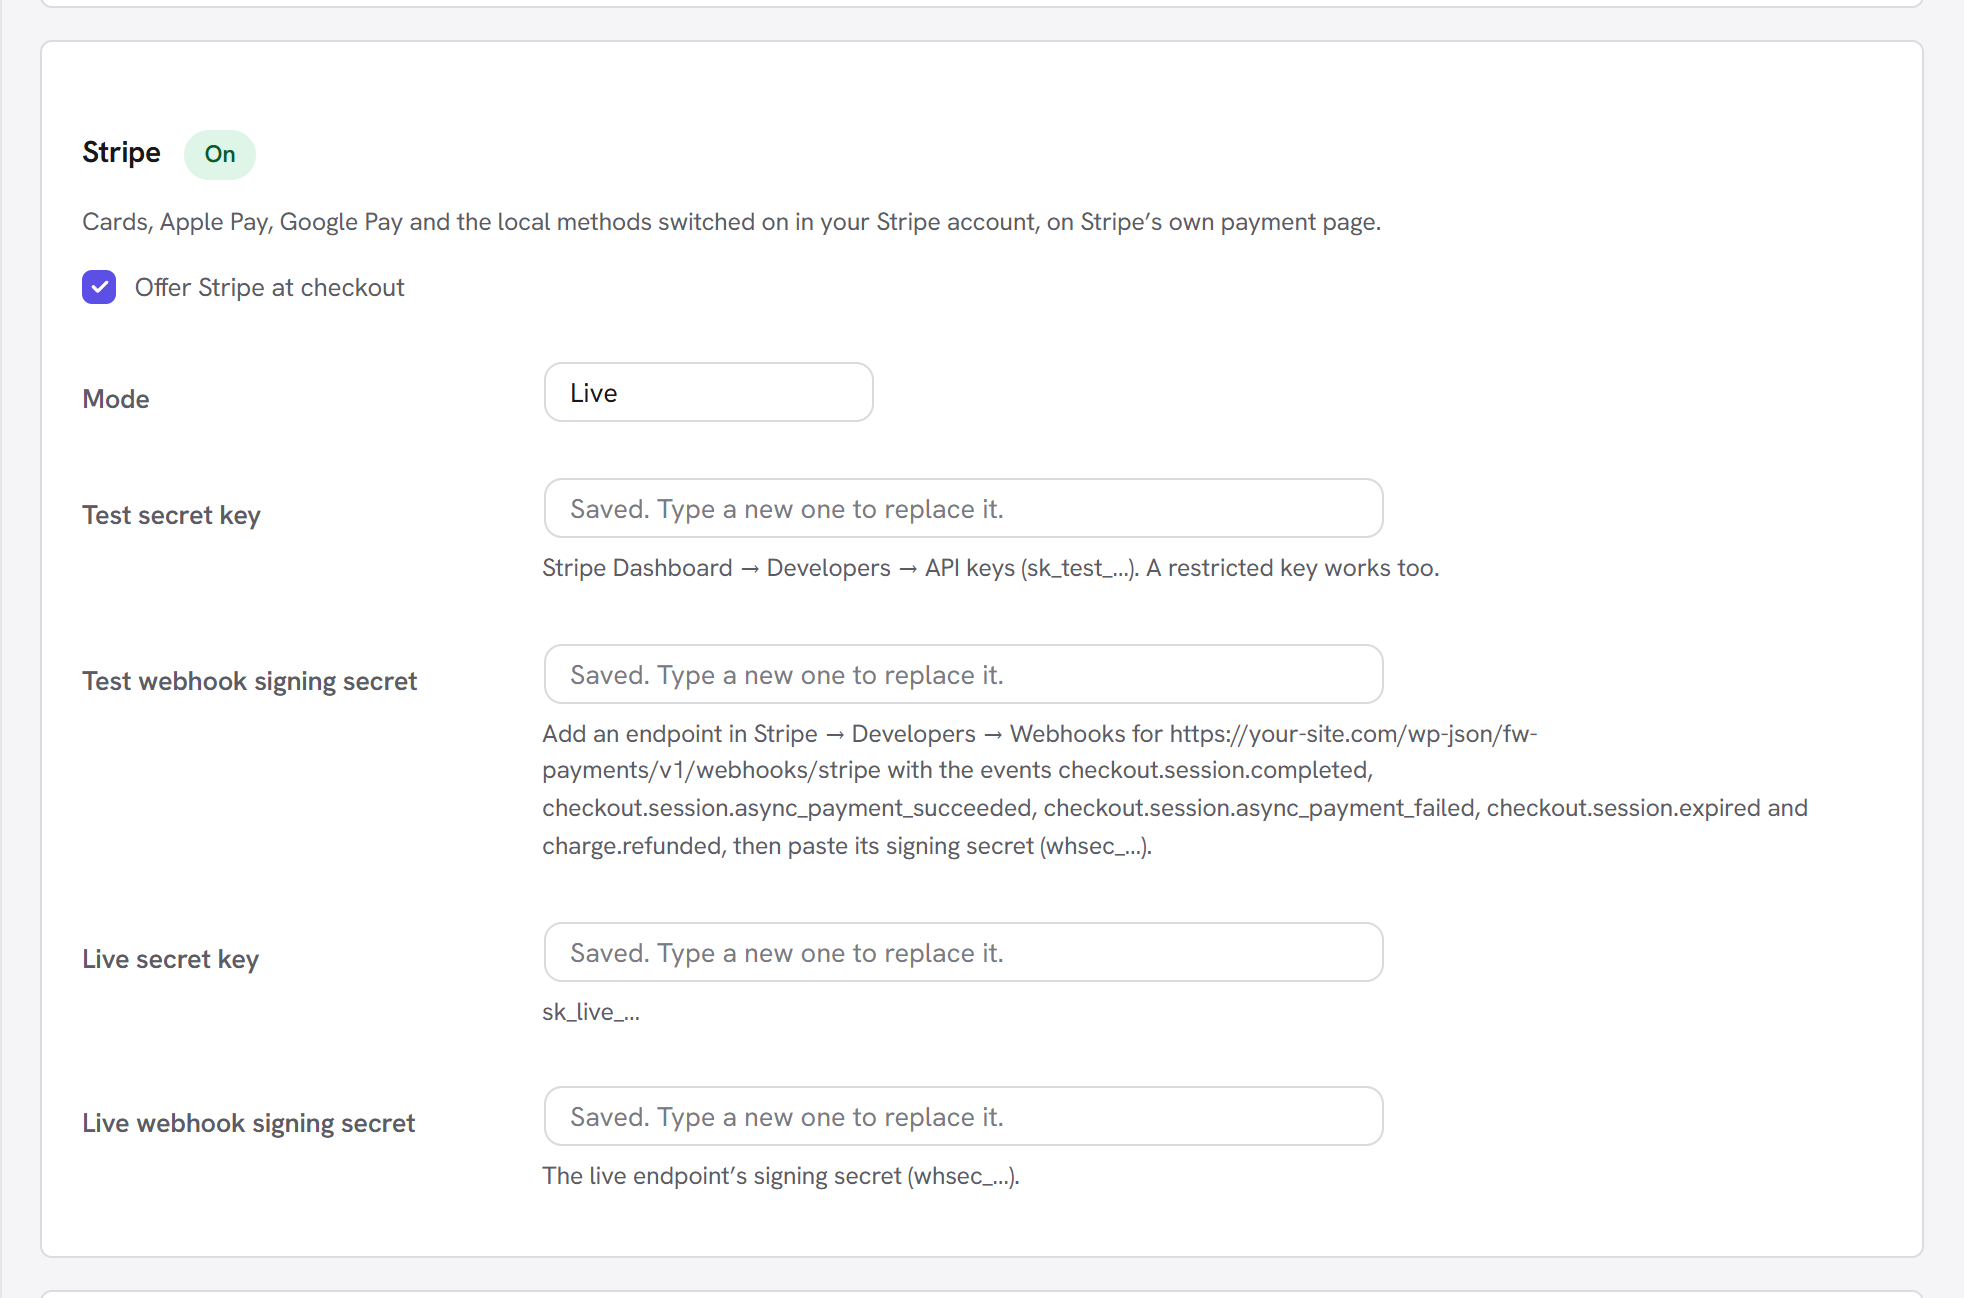
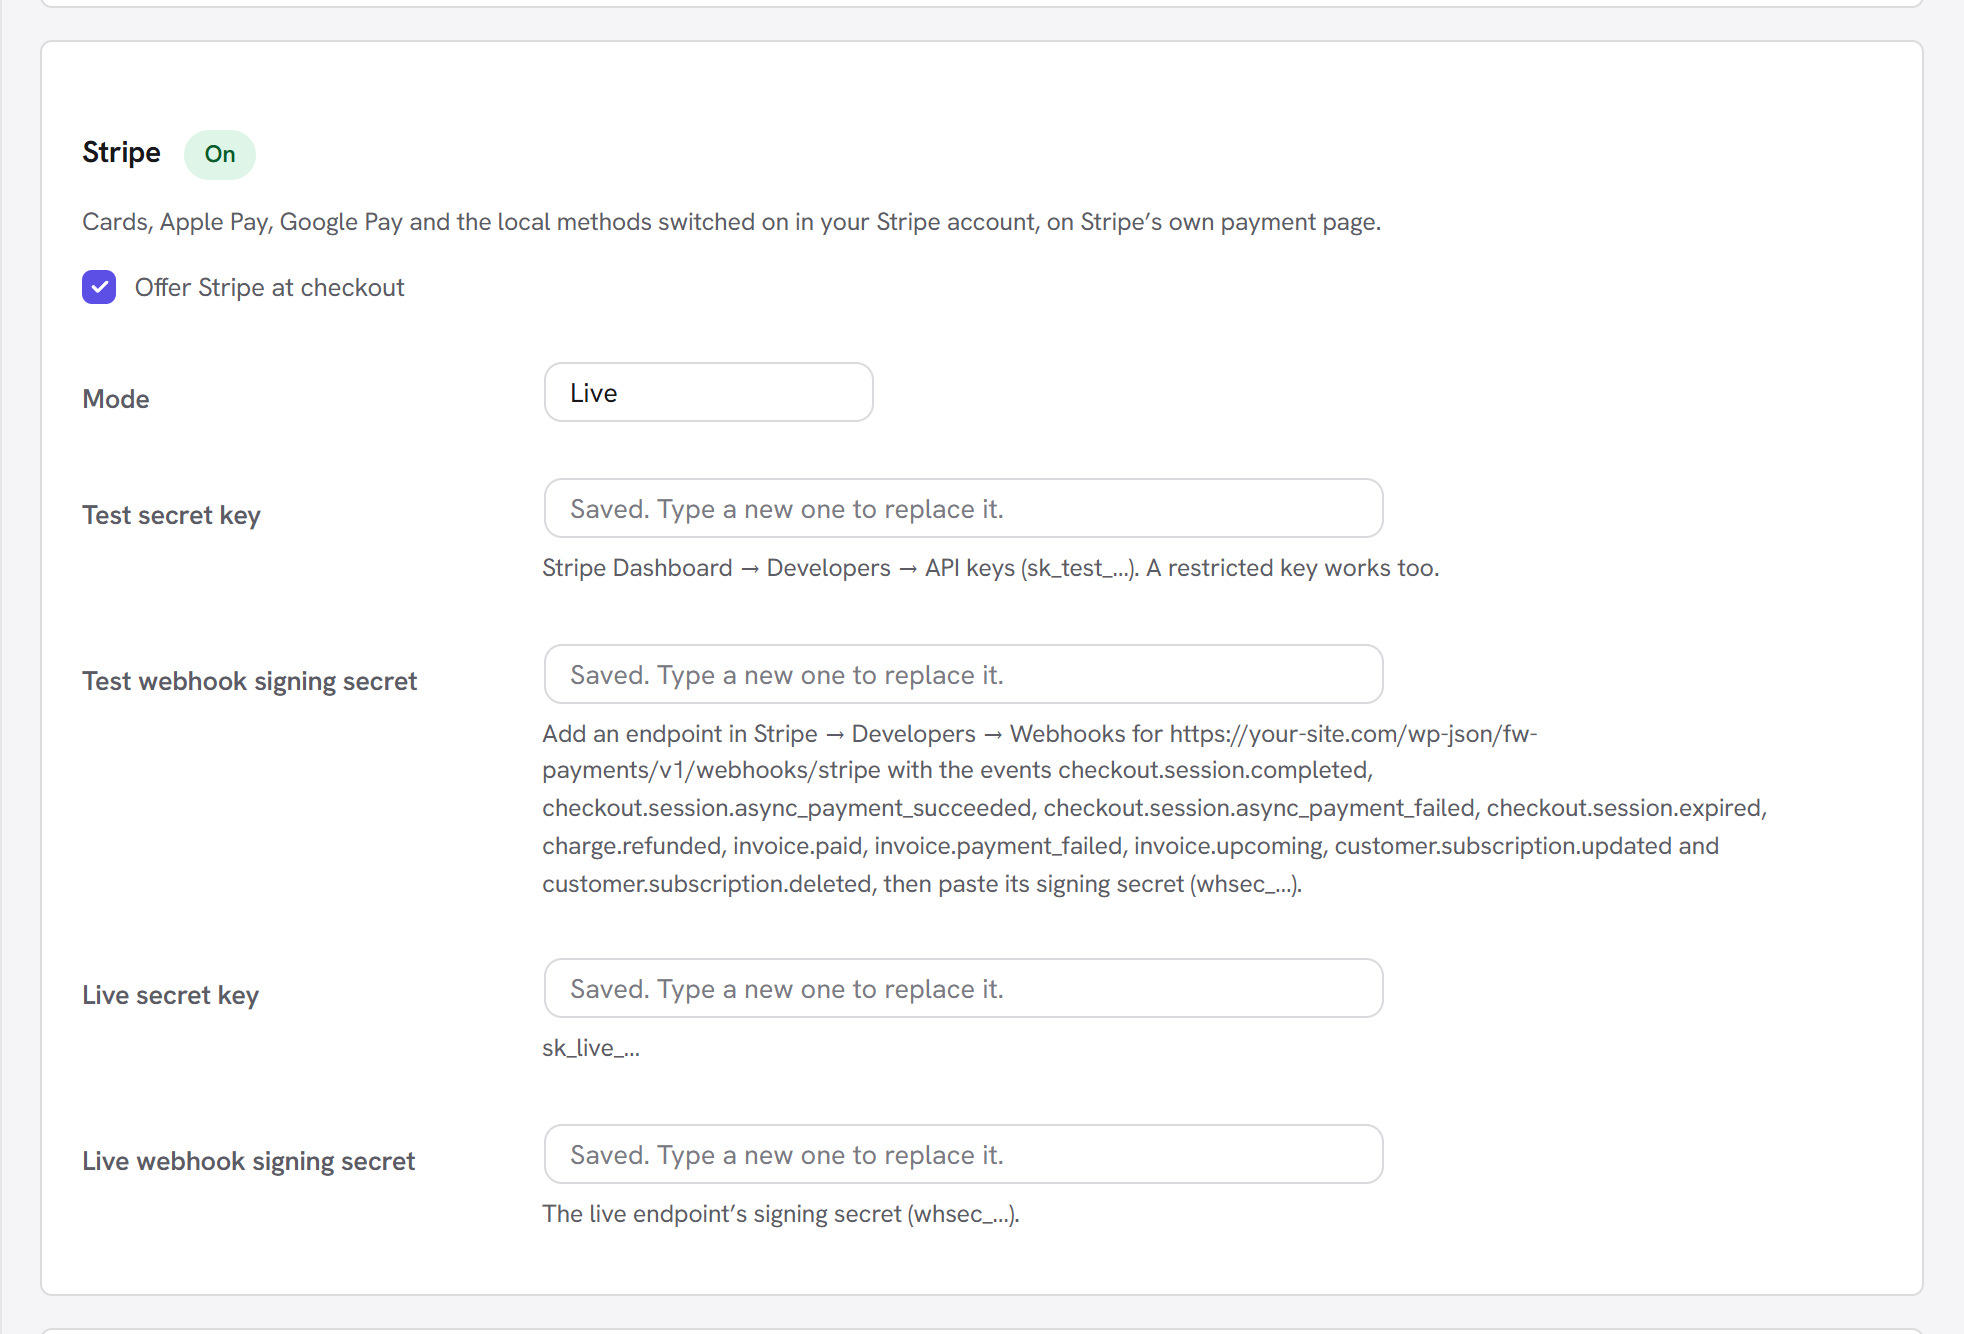
Payments: subscriptions (docs, screenshot, roadmap progress)

diff --git a/docs/extensions/payments.md b/docs/extensions/payments.md
@@ -2,8 +2,8 @@
 sidebar_position: 19
 title: "Payments — One Payments System for Every Unyson+ Extension"
 sidebar_label: "Payments"
-description: "Payments is the shared payments core of Unyson+: payment providers and their methods, one list of every payment and refund, a waiting state for bank transfers and cash, and webhooks. It is hidden, and switches on by itself the first time a feature takes money."
-keywords: [wordpress payments, stripe wordpress, paypal wordpress, bank transfer payments, payment gateway api, refunds, payment webhooks, unyson payments]
+description: "Payments is the shared payments core of Unyson+: payment providers and their methods, one-off payments and subscriptions, one list of every payment and refund, a waiting state for bank transfers and cash, and webhooks. It is hidden, and switches on by itself the first time a feature takes money."
+keywords: [wordpress payments, stripe wordpress, paypal wordpress, wordpress subscriptions, recurring payments, bank transfer payments, payment gateway api, refunds, payment webhooks, unyson payments]
 ---
 
 # Payments
@@ -12,10 +12,10 @@ Payments is the part of Unyson+ that takes money. It is built once and shared, s
 forms and bookings do not each carry their own copy of Stripe, PayPal and refunds.
 
 :::note Where this stands
-This first version takes **one-off payments** and is the foundation the planned [Shop](./shop/roadmap) is built
-on. **Membership and Forms still use their own payment settings today.** They move onto Payments in a later
-step of the [roadmap](./shop/roadmap), together with recurring payments, coupons, invoices and tax. Nothing
-changes on a site that already takes payments.
+Payments takes **one-off payments and subscriptions**, and is the foundation the planned
+[Shop](./shop/roadmap) is built on. **Membership and Forms still use their own payment settings today.** They
+move onto Payments in a later step of the [roadmap](./shop/roadmap), together with coupons, invoices and tax.
+Nothing changes on a site that already takes payments.
 :::
 
 ## It switches on by itself
@@ -77,6 +77,35 @@ A paid payment has a **Refund** box. Type an amount, or leave the full amount, f
 A refund made in the Stripe or PayPal dashboard is picked up automatically when the provider notifies the site,
 so you do not need to record it twice.
 
+## Subscriptions
+
+**Payments → Subscriptions** lists every subscription from every extension. The item appears in the menu once
+the site has its first subscription.
+
+<img src="/img/extensions/payments/subscriptions-list.png" alt="The Subscriptions list: how many are running and how many have a failed payment, then one row per subscription with customer, what it is for, price, provider, status, the next date, and the Payments and Stop renewals buttons" width="1672" />
+
+A subscription is billed **by the provider** (Stripe or PayPal), not by your site. Renewals keep happening even
+if the site is briefly down, and each one arrives in **All payments** as its own payment, marked *Renewal*.
+
+| Status | What it means |
+| --- | --- |
+| **Not started** | The customer has not finished the provider's page. |
+| **In trial** | A free trial is running. The **Next** column shows the first payment date. |
+| **Active** | Paid up. **Next** shows the renewal date. |
+| **Payment failed** | A renewal did not go through. The provider tries the card again by itself. |
+| **Paused** | Billing is on hold. |
+| **Ends soon** | Renewals are stopped. What was paid for still runs to the date shown. |
+| **Ended** | Nothing more will be charged. |
+
+- **Stop renewals** stops future charges at the provider. The customer keeps what they paid for until its date.
+  It also tells the extension the subscription belongs to (a membership, for example), which decides what
+  happens to the customer's access.
+- **Keep it running** undoes that, while the subscription has not ended yet (Stripe only; a PayPal subscription
+  cannot be restarted once cancelled).
+- **Payments** opens that customer's payments.
+
+Bank transfer and cash cannot be used for a subscription, because nothing can be charged again by itself.
+
 ## Settings
 
 **Payments → Settings** is one place for every way the site takes money.
@@ -112,8 +141,9 @@ believed: Stripe's by its signature, PayPal's by asking PayPal.
 
 ## Limits of this version
 
-- **One-off payments only.** Subscriptions arrive when Membership moves onto Payments.
-- **No coupons, invoices or tax yet.** They move in from Membership and Forms in the same step.
+- **No coupon codes, invoices or tax rules yet.** Payments applies a discount or a tax rate it is given; the
+  codes, the invoice documents and the per-country tax rules move in from Membership and Forms later.
+- **PayPal cannot change the price of a running subscription** or restart a cancelled one. Stripe can do both.
 - **Three providers.** Local providers come next on the [roadmap](./shop/roadmap): the Philippines first (GCash,
   Maya, QR Ph), then Southeast Asia, then other regions.
 - Membership, Forms and Bookings do not use it yet.
@@ -173,6 +203,76 @@ It returns a `WP_Error`, or an array:
 When the customer comes back to `urls.success`, Payments checks with the provider by itself.
 `FW_Payments::returning()` gives the charge for the current request, so the page can show its status.
 
+### Start a subscription
+
+```php
+$r = FW_Payments_Subscriptions::start( array(
+    'source'      => 'membership',
+    'source_id'   => $membership_id,
+    'amount'      => 19.00,          // one period's price, before discount and tax
+    'currency'    => 'USD',
+    'bill_unit'   => 'month',        // day | week | month | year
+    'bill_count'  => 1,              // every 1 month
+    'trial_days'  => 14,             // optional
+    'setup_fee'   => 0,              // optional, charged once with the first payment
+    'discount'    => array( 'type' => 'percent', 'amount' => 20, 'duration' => 'repeating', 'months' => 3, 'code' => 'SPRING' ),
+    'tax'         => array( 'rate' => 12, 'inclusive' => false, 'label' => 'VAT', 'country' => 'PH' ),
+    'due_now'     => 0,              // what is charged today, for the first payment's row
+    'description' => 'Gold plan, monthly',
+    'customer'    => array( 'user_id' => 7, 'email' => 'ana@example.com', 'name' => 'Ana', 'country' => 'PH' ),
+    'gateway'     => 'stripe',
+    'method'      => 'stripe',
+    'urls'        => array( 'success' => $thanks_url, 'cancel' => $checkout_url ),
+) );
+// array( 'id' => subscription id, 'charge_id' => first payment, 'status' => 'pending', 'redirect' => url ) or WP_Error
+```
+
+Ask for the methods with `'recurring' => true` so only those that can charge again are offered.
+
+- `discount.duration` is `once`, `repeating` (for `months`) or `forever`; `discount.type` is `percent` or `fixed`.
+- `tax` is a rate the site worked out, or `array( 'automatic' => true )` to let Stripe work it out.
+- The first payment is an ordinary charge with a `subscription_id`. Each renewal is another charge with
+  `type` `renewal`; an upgrade's difference is a charge with `type` `extra`. All of them fire
+  `unysonplus_payments_paid`.
+- The subscription is activated **before** its first charge is marked paid, so a paid listener finds its
+  status and `period_end` already set.
+
+```php
+FW_Payments_Subscriptions::cancel( $id );            // stop at the end of the paid period
+FW_Payments_Subscriptions::cancel( $id, true );      // stop now
+FW_Payments_Subscriptions::resume( $id );            // undo a cancellation that has not taken effect
+FW_Payments_Subscriptions::pause( $id, $until );     // unix time
+FW_Payments_Subscriptions::unpause( $id );
+FW_Payments_Subscriptions::switch_price( $id, array( 'amount' => 190, 'bill_unit' => 'year' ), 'prorate' ); // or 'none'
+FW_Payments_Subscriptions::discount( $id, 30, 2 );   // 30% off the next 2 months
+FW_Payments_Subscriptions::manage_url( $id, $return_url ); // where the payer changes their card
+
+$sub     = FW_Payments_Subscriptions::get( $id );
+$sub     = FW_Payments_Subscriptions::for_source( 'membership', $membership_id );
+$charges = FW_Payments_Subscriptions::charges( $id );
+```
+
+Each returns `true` or a `WP_Error`. The provider is asked first, and the change is made on the site only when
+the provider agreed.
+
+| Hook | Arguments | When |
+| --- | --- | --- |
+| `unysonplus_payments_subscription_activated` | `$subscription`, `$ctx` | The payer agreed; it runs (or its trial does) |
+| `unysonplus_payments_subscription_trial_ended` | `$subscription`, `$ctx` | The trial is over and the first period is paid |
+| `unysonplus_payments_subscription_renewed` | `$subscription`, `$charge` | A renewal was paid |
+| `unysonplus_payments_subscription_renewal_failed` | `$subscription`, `$charge` | A renewal payment failed |
+| `unysonplus_payments_subscription_past_due` | `$subscription`, `$ctx` | It became overdue |
+| `unysonplus_payments_subscription_extra_charge` | `$subscription`, `$charge` | The difference for an upgrade was charged |
+| `unysonplus_payments_subscription_upcoming` | `$subscription`, `$data` | A renewal is coming (date, amount, card) |
+| `unysonplus_payments_subscription_cancelling` | `$subscription`, `$ctx` | Renewals were stopped |
+| `unysonplus_payments_subscription_resumed` | `$subscription`, `$ctx` | The cancellation was undone |
+| `unysonplus_payments_subscription_paused` / `_unpaused` | `$subscription`, `$ctx` | Billing went on hold / came back |
+| `unysonplus_payments_subscription_changed` | `$subscription`, `$ctx` | Its price was changed |
+| `unysonplus_payments_subscription_ended` | `$subscription`, `$ctx` | Nothing more will be charged |
+
+`$ctx['by']` is `site` or `provider`: who made the change. Use it so a listener does not send a change back to
+where it came from.
+
 ### Hear what happened
 
 Every extension's payments pass through the same hooks, so always check the source.
@@ -230,5 +330,6 @@ rest.
 | `unysonplus_payments_gateways` | Register providers |
 | `unysonplus_payments_methods` | Reorder, hide or rename the methods offered for an order |
 | `unysonplus_payments_stripe_session` | Change the Stripe Checkout session before it is created |
+| `unysonplus_payments_stripe_subscription_session` | The same, for a subscription |
 | `unysonplus_payments_sources` | Name your own source in the admin list |
 | `unysonplus_payments_capability` | Who may see and refund payments (default `manage_options`) |
